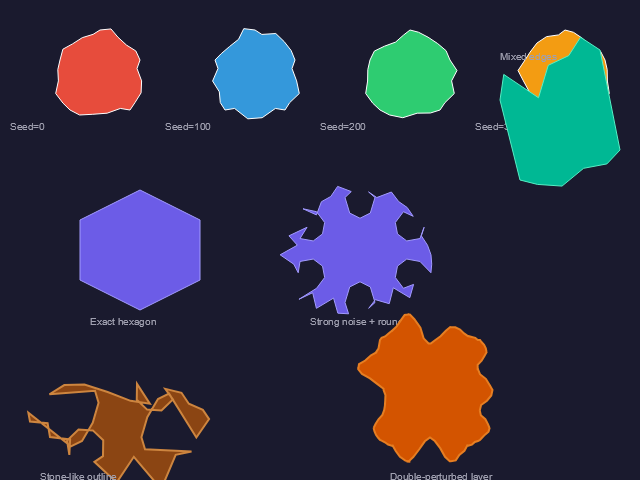
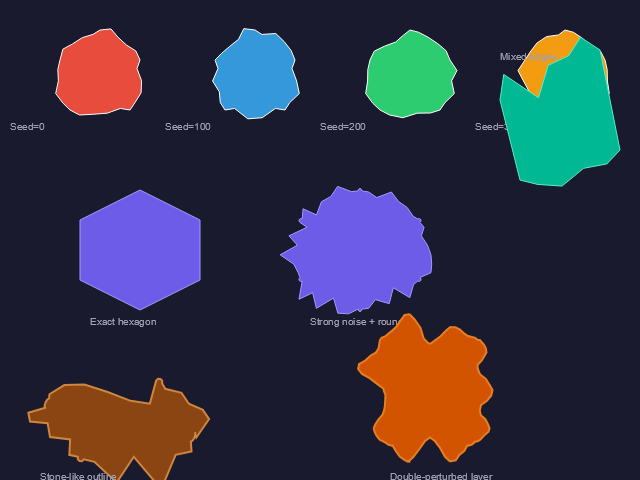
fix(evaluator): make perturb-polygon backward compatible and include missing example dirs
- perturb-polygon now returns raw point list when no style kwargs, GraphicObject when style kwargs are present; fixes 12-edge-perturb 01/02/05

- run_all.ps1 now includes 07-shaders-noise, 10-tilemap, 12-edge-perturb, 13-texture, 14-gradients

- Fix test_opacity.pml render path and remove nested generated PNG

- Regenerate edge-perturb example PNGs with corrected rendering

diff --git a/src/pml/evaluator/perturb_builtins.cpp b/src/pml/evaluator/perturb_builtins.cpp
@@ -211,23 +211,31 @@ static Result<Value> builtin_perturb_polygon(
         point_pairs.push_back(make_list_value({Value(pt.x), Value(pt.y)}));
     }
 
+    // Backward compatibility: if no style kwargs are supplied, return the raw
+    // perturbed point list so callers can pass it to (polygon ...) or chain
+    // multiple perturb-polygon calls.  If style kwargs are present, wrap the
+    // result in a GraphicObject directly.
+    bool has_style = kwargs.contains("fill") || kwargs.contains("stroke") ||
+                     kwargs.contains("stroke-width") || kwargs.contains("opacity");
+    if (!has_style) {
+        return make_list_value(std::move(point_pairs));
+    }
+
     // Wrap in a GraphicObject so style params (:fill, :stroke, :opacity) work.
     Params params;
     params.set(ParamKey::points, make_list_value(std::move(point_pairs)));
 
-    // Pass through recognised style keyword args.
-    auto kw = parse_kwargs(args, 1);
     std::optional<std::string> fill_color;
     std::optional<std::string> stroke_color;
-    double stroke_width = kw_double(kw, "stroke-width", 1.0);
-    double opacity = kw_double(kw, "opacity", 1.0);
+    double stroke_width = kw_double(kwargs, "stroke-width", 1.0);
+    double opacity = kw_double(kwargs, "opacity", 1.0);
 
-    auto fill_it = kw.find("fill");
-    if (fill_it != kw.end()) {
+    auto fill_it = kwargs.find("fill");
+    if (fill_it != kwargs.end()) {
         if (const auto* s = fill_it->second.as_string()) fill_color = *s;
     }
-    auto stroke_it = kw.find("stroke");
-    if (stroke_it != kw.end()) {
+    auto stroke_it = kwargs.find("stroke");
+    if (stroke_it != kwargs.end()) {
         if (const auto* s = stroke_it->second.as_string()) stroke_color = *s;
     }
 